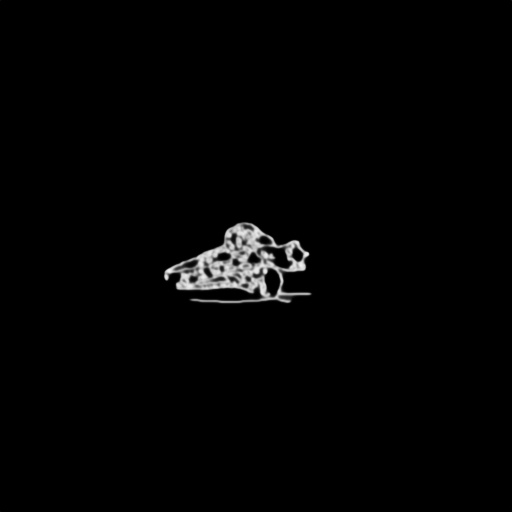
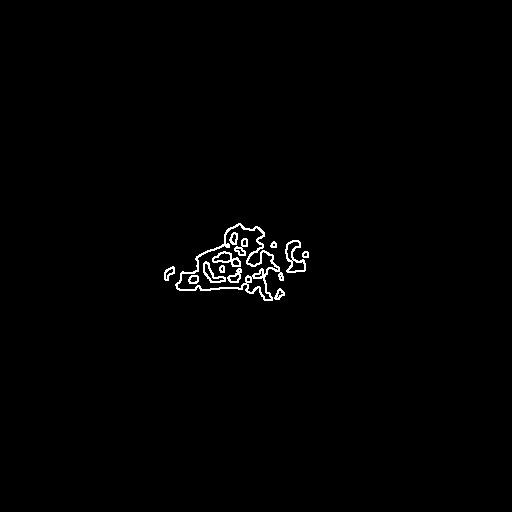
Working CAD pipeline with skeleton + circles + SVG

Changed region(s): [[0.3125, 0.4375, 0.625, 0.5938]]

diff --git a/inference_batch.py b/inference_batch.py
@@ -1,43 +1,128 @@
-import cv2
-import torch
 import os
+import cv2
 import numpy as np
+import subprocess
+import torch
 from models.unet import UNet
 
+# ==============================
+# PATHS
+# ==============================
+EDGE_DIR = "edges"
+OUT_DIR = "outputs"
+SVG_DIR = "outputs/svg"
 MODEL_PATH = "models/jewellery_unet.pth"
-INPUT_DIR = "edges"
-OUTPUT_DIR = "outputs"
-IMG_SIZE = 512
 
-os.makedirs(OUTPUT_DIR, exist_ok=True)
+os.makedirs(OUT_DIR, exist_ok=True)
+os.makedirs(SVG_DIR, exist_ok=True)
 
-device = torch.device("cpu")
-
-model = UNet()
+# ==============================
+# LOAD MODEL
+# ==============================
+device = "cuda" if torch.cuda.is_available() else "cpu"
+model = UNet(in_channels=1, out_channels=1).to(device)
 model.load_state_dict(torch.load(MODEL_PATH, map_location=device))
 model.eval()
 
-for file in os.listdir(INPUT_DIR):
-    path = os.path.join(INPUT_DIR, file)
+# ==============================
+# UTILS
+# ==============================
+def skeletonize(img):
+    skel = np.zeros(img.shape, np.uint8)
+    element = cv2.getStructuringElement(cv2.MORPH_CROSS, (3,3))
 
-    img = cv2.imread(path, cv2.IMREAD_GRAYSCALE)
-    if img is None:
-        print("Skipping:", file)
+    while True:
+        eroded = cv2.erode(img, element)
+        temp = cv2.dilate(eroded, element)
+        temp = cv2.subtract(img, temp)
+        skel = cv2.bitwise_or(skel, temp)
+        img = eroded.copy()
+        if cv2.countNonZero(img) == 0:
+            break
+    return skel
+
+
+def perfect_circles(img):
+    circles = cv2.HoughCircles(
+        img,
+        cv2.HOUGH_GRADIENT,
+        dp=1.2,
+        minDist=40,
+        param1=100,
+        param2=30,
+        minRadius=20,
+        maxRadius=300
+    )
+
+    if circles is not None:
+        for c in circles[0]:
+            x, y, r = map(int, c)
+            cv2.circle(img, (x, y), r, 255, 1)
+    return img
+
+
+def smooth_lines(img):
+    contours, _ = cv2.findContours(
+        img, cv2.RETR_EXTERNAL, cv2.CHAIN_APPROX_NONE
+    )
+
+    smooth = np.zeros_like(img)
+    for cnt in contours:
+        epsilon = 0.002 * cv2.arcLength(cnt, True)
+        approx = cv2.approxPolyDP(cnt, epsilon, True)
+        cv2.drawContours(smooth, [approx], -1, 255, 1)
+
+    return smooth
+
+
+def export_svg(png_path, svg_path):
+    subprocess.run([
+        "potrace",
+        png_path,
+        "-s",
+        "-o",
+        svg_path
+    ])
+
+
+# ==============================
+# INFERENCE LOOP
+# ==============================
+for fname in os.listdir(EDGE_DIR):
+    if not fname.lower().endswith((".png", ".jpg", ".jpeg")):
         continue
 
-    # 🔥 RESIZE HERE
-    img = cv2.resize(img, (IMG_SIZE, IMG_SIZE))
+    print("Processing:", fname)
+
+    img = cv2.imread(os.path.join(EDGE_DIR, fname), 0)
+    img = cv2.resize(img, (512, 512))
     img = img / 255.0
-    img = torch.tensor(img).unsqueeze(0).unsqueeze(0).float()
+
+    x = torch.tensor(img).unsqueeze(0).unsqueeze(0).float().to(device)
 
     with torch.no_grad():
-        pred = model(img)
+        pred = model(x).squeeze().cpu().numpy()
 
-    pred = pred.squeeze().numpy()
-    pred = (pred * 255).astype("uint8")
+    # Binary
+    _, mask = cv2.threshold(pred, 0.5, 1, cv2.THRESH_BINARY)
+    mask = (mask * 255).astype(np.uint8)
 
-    out_path = os.path.join(OUTPUT_DIR, file)
-    cv2.imwrite(out_path, pred)
-    print("Saved:", out_path)
+    # ==============================
+    # CAD GEOMETRY PIPELINE
+    # ==============================
+    mask = skeletonize(mask)          # 1⃣
+    mask = perfect_circles(mask)      # 3⃣
+    mask = smooth_lines(mask)          # 4⃣
+    mask = cv2.dilate(mask, None, 1)
 
-print("✅ Inference Complete")
+    # Save PNG
+    out_png = os.path.join(OUT_DIR, fname)
+    cv2.imwrite(out_png, mask)
+
+    # Save SVG
+    out_svg = os.path.join(
+        SVG_DIR, fname.rsplit(".",1)[0] + ".svg"
+    )
+    export_svg(out_png, out_svg)
+
+print("DONE ✅")

diff --git a/README.md b/README.md
@@ -1,1 +1,3 @@
 # CAD-Conversion
+
+python inference_batch.py
